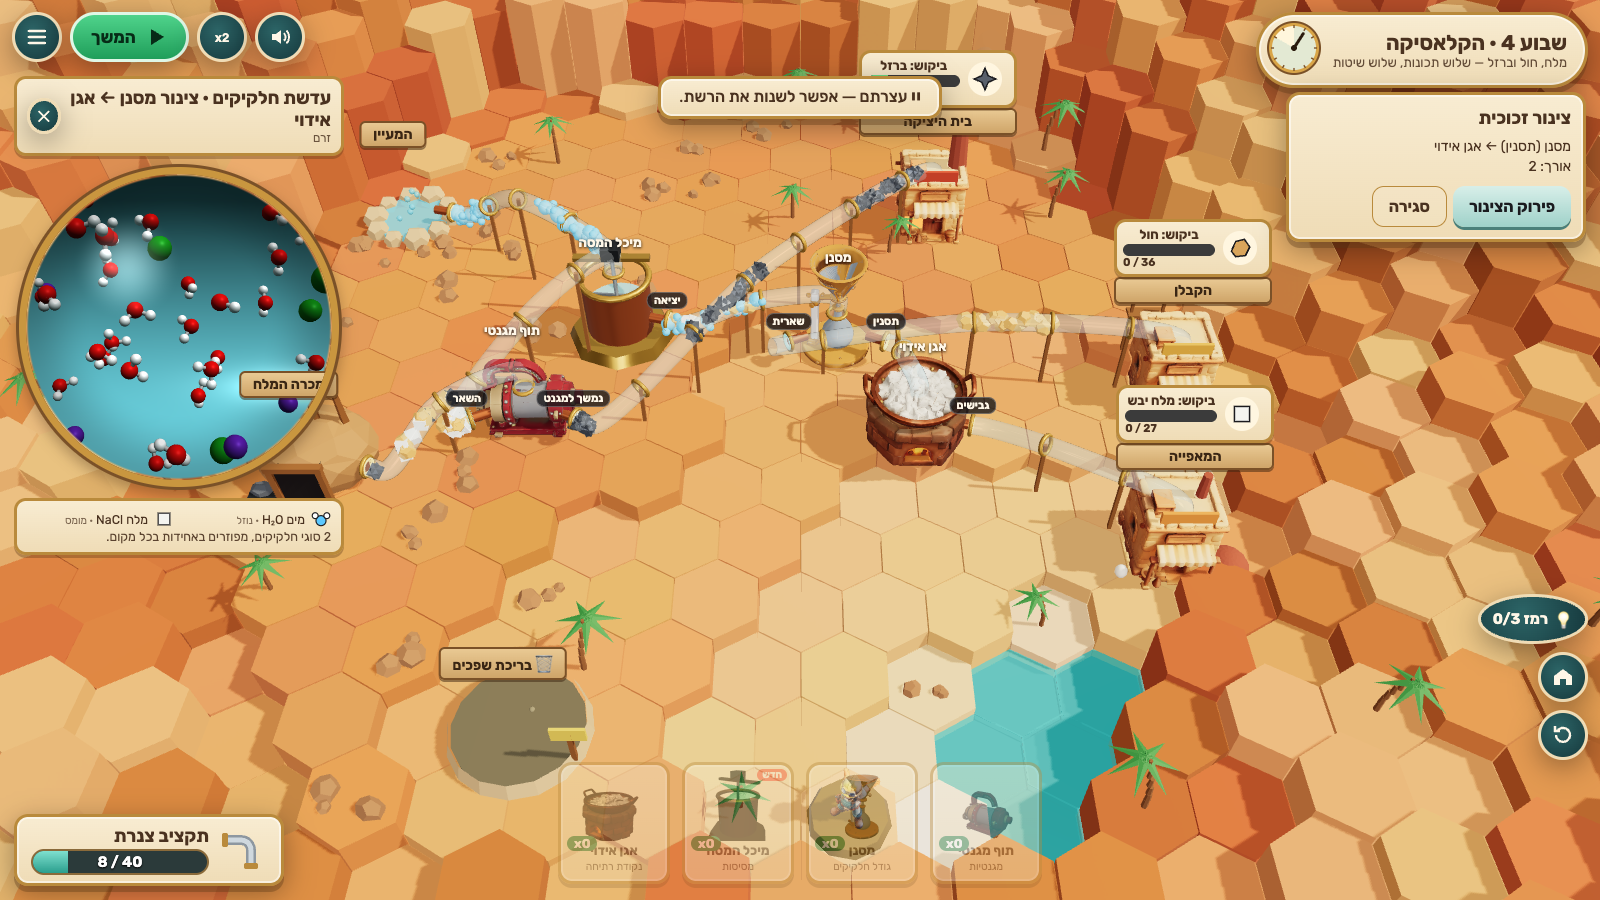
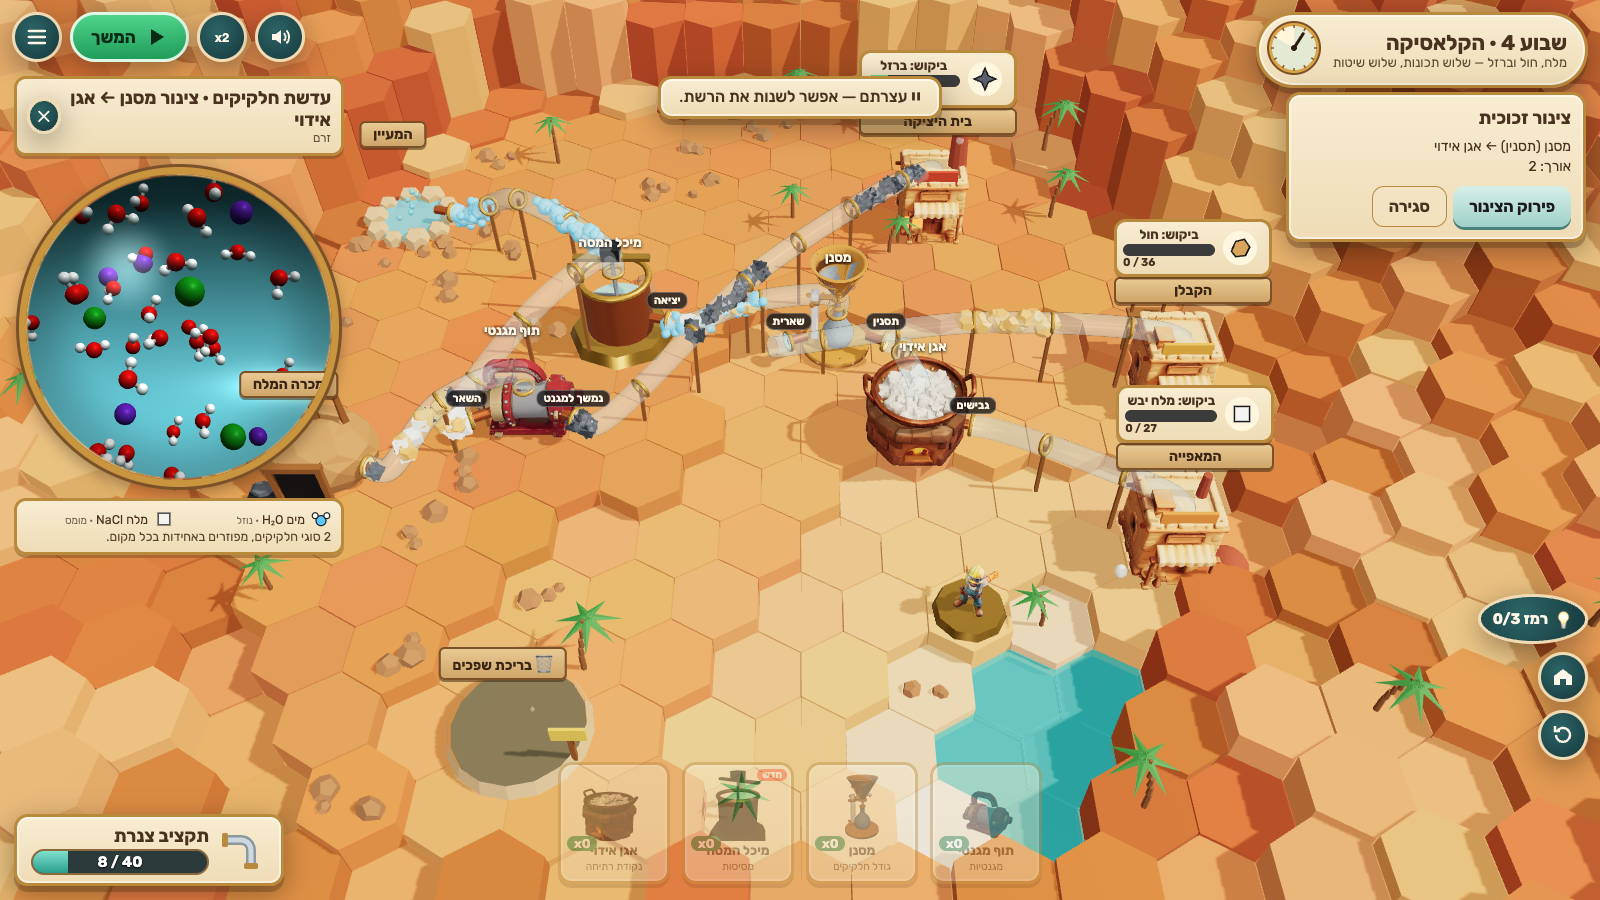
Visual review, README, Vercel config, brass backlog dial, dusk tint

diff --git a/src/game/Game.ts b/src/game/Game.ts
@@ -125,7 +125,7 @@ export class Game {
     this.scene.environment = pmrem.fromScene(new RoomEnvironment(), 0.04).texture;
     this.scene.environmentIntensity = 0.28;
     this.scene.add(this.levelRoot);
-    this.field = new ParticleField(this.scene, 2.9);
+    this.field = new ParticleField(this.scene, 3.3);
     this.fx = new Fx(this.scene);
     this.controls = new OrbitControls(this.camera, canvas);
     this.controls.enableDamping = true;
@@ -438,7 +438,7 @@ export class Game {
       root.append(lab.meter);
     }
     if (n.kind === 'source') {
-      lab.gauge = el('div', { class: 'gauge hidden' }, `<span>⚠</span><div class="bar"><i></i></div><span class="txt">עומס</span>`);
+      lab.gauge = el('div', { class: 'gauge hidden' }, `<svg class="dial" viewBox="0 0 60 36"><path d="M6 32 A24 24 0 0 1 54 32" fill="#fff6dc" stroke="#7a5128" stroke-width="3"/><path d="M38 12 A24 24 0 0 1 54 32" fill="none" stroke="#e2552d" stroke-width="5"/><line class="needle" x1="30" y1="32" x2="30" y2="10" stroke="#2b1b0e" stroke-width="3" stroke-linecap="round"/><circle cx="30" cy="32" r="3.5" fill="#2b1b0e"/></svg><span class="txt">עומס בצנרת</span>`);
       root.append(lab.gauge);
     }
     if (n.kind === 'waste') sign.textContent = '🗑 ' + n.he;
@@ -498,7 +498,8 @@ export class Game {
       if (lab.gauge) {
         const busy = n.buffer.length >= 3 || n.overflow > 0.02;
         lab.gauge.classList.toggle('hidden', !busy || w.state === 'planning');
-        (lab.gauge.querySelector('.bar > i') as HTMLElement).style.width = `${Math.min(100, n.overflow * 100 + (n.buffer.length / 5) * 20)}%`;
+        const load = Math.min(1, n.overflow * 0.8 + (n.buffer.length / 5) * 0.2);
+        lab.gauge.querySelector('.needle')!.setAttribute('transform', `rotate(${-80 + load * 160} 30 32)`);
         lab.gauge.classList.toggle('warn', n.overflow > 0.05 && n.overflow < 0.5);
         lab.gauge.classList.toggle('crit', n.overflow >= 0.5);
         lab.gauge.querySelector('.txt')!.textContent = n.overflow >= 0.5 ? 'עומד להציף!' : 'עומס';

diff --git a/src/render/pipes.ts b/src/render/pipes.ts
@@ -92,7 +92,7 @@ export class ParticleField {
   }
 
   /** Draw a packet's particles at a point along a curve. */
-  packetOnCurve(curve: THREE.CatmullRomCurve3, u0: number, comp: Comp, packetId: number, t: number, spread = 0.14, trailLen = 2.4): void {
+  packetOnCurve(curve: THREE.CatmullRomCurve3, u0: number, comp: Comp, packetId: number, t: number, spread = 0.17, trailLen = 2.4): void {
     const list = particleUnits(comp);
     const tmp = new THREE.Vector3();
     const tan = new THREE.Vector3();
@@ -119,7 +119,7 @@ export function glassPipeMaterial(): THREE.MeshPhysicalMaterial {
   return new THREE.MeshPhysicalMaterial({ color: '#dcf7ff', metalness: 0.1, roughness: 0.02, transparent: true, opacity: 0.3, depthWrite: false, clearcoat: 1, clearcoatRoughness: 0.02, specularIntensity: 1, envMapIntensity: 2.2, emissive: '#7fe9ff', emissiveIntensity: 0.0, side: THREE.DoubleSide });
 }
 
-export function buildPipeMesh(curve: THREE.CatmullRomCurve3, mat: THREE.Material, radius = 0.21): THREE.Mesh {
+export function buildPipeMesh(curve: THREE.CatmullRomCurve3, mat: THREE.Material, radius = 0.25): THREE.Mesh {
   const geo = new THREE.TubeGeometry(curve, Math.max(24, Math.floor(curve.getLength() * 10)), radius, 12, false);
   const m = new THREE.Mesh(geo, mat);
   m.renderOrder = 2;

diff --git a/src/render/terrain.ts b/src/render/terrain.ts
@@ -197,7 +197,7 @@ export interface Environment {
 }
 
 const SKY_DAY = new THREE.Color('#bfe3e6');
-const SKY_DUSK = new THREE.Color('#f29a6b');
+const SKY_DUSK = new THREE.Color('#d98ca0');
 const SKY_NIGHT = new THREE.Color('#40375e');
 
 export function buildEnvironment(scene: THREE.Scene): Environment {
@@ -221,7 +221,7 @@ export function buildEnvironment(scene: THREE.Scene): Environment {
   const bg = scene.background as THREE.Color;
   const fog = scene.fog as THREE.Fog;
   const sunDay = new THREE.Color('#fff1d6');
-  const sunDusk = new THREE.Color('#ff9a57');
+  const sunDusk = new THREE.Color('#ff8a5c');
   return {
     sun,
     hemi,
@@ -230,7 +230,7 @@ export function buildEnvironment(scene: THREE.Scene): Environment {
       const a = THREE.MathUtils.lerp(-0.9, 1.15, f); // sun azimuth sweep
       const elev = Math.sin(THREE.MathUtils.lerp(0.35, 2.75, f)) * 0.9 + 0.12;
       sun.position.set(Math.cos(a) * 22, 6 + elev * 18, Math.sin(a) * 10 + 8);
-      const dusk = THREE.MathUtils.smoothstep(f, 0.62, 1.0);
+      const dusk = THREE.MathUtils.smoothstep(f, 0.55, 0.95);
       sun.color.copy(sunDay).lerp(sunDusk, dusk);
       sun.intensity = 3.0 - dusk * 1.2;
       hemi.intensity = 1.05 - dusk * 0.35;

diff --git a/src/style.css b/src/style.css
@@ -101,6 +101,7 @@ bdi.f, .ltr { direction: ltr; unicode-bidi: isolate; font-variant-numeric: tabul
 .gauge.warn { border-color: var(--warn); animation: shake 0.4s infinite; }
 .gauge.crit { border-color: var(--bad); background: rgba(120,20,10,0.85); animation: shake 0.25s infinite; }
 @keyframes shake { 0%,100% { transform: translate(-50%,-100%) translateX(0); } 50% { transform: translate(-50%,-100%) translateX(2px); } }
+.gauge .dial { width: 54px; height: 33px; }
 .gauge .bar { width: 46px; height: 8px; border-radius: 5px; background: rgba(255,255,255,0.15); overflow: hidden; direction: ltr; }
 .gauge .bar > i { display: block; height: 100%; background: var(--teal-300); }
 .gauge.warn .bar > i { background: var(--warn); }

diff --git a/docs/VISUAL_REVIEW.md b/docs/VISUAL_REVIEW.md
@@ -1,0 +1,60 @@
+# Visual review — mockups vs the real game
+
+Targets: ChatGPT (gpt-image) mockups in [visual-targets/](visual-targets/) (prompts in [PROMPTS.md](visual-targets/PROMPTS.md)). They are design targets, not evidence of the game.
+Actuals: real captures in [captures/](captures/), produced by `node scripts/playtest.mjs review --out docs/captures` against the dev server: headless Chromium (SwiftShader WebGL), 1600×900, same aspect as the mockups, every action done with real mouse input (no state injection), time stepped with `window.advanceTime`.
+
+Rendering in headless SwiftShader matches the browser's output closely but is not a GPU capture; colour and anti-aliasing can differ slightly on a real GPU.
+
+## 01 · First 30 seconds (week 1)
+
+| | Target `01-first-30s.png` | Actual `actual-01-first-30s.png` |
+|---|---|---|
+| Camera | Low three-quarter hero shot (~35°), close; the magnet drum fills the centre | Higher strategic three-quarter (~47°), framed to show every node of the week. Deliberate: in a routing game the whole network has to fit on screen. Players can zoom/orbit closer. |
+| Scene | Realistic sandstone cliffs, reservoir with an arched dam, salt flats | Stylised hex terraces (the playing grid) inside a ring of tall sandstone hex columns, turquoise lake, palms, rocks. Same palette; geometry is game-board rather than photo-real. No dam or salt-flat backdrop. |
+| Machines | Brass-and-glass magnet drum with red horseshoe | Tripo `magnet-drum.glb` (red/brass drum, horseshoe on top) — close match. Mine is a procedural rock mound with a timber portal (target: cliff portal with a sign). Customers use the Tripo sandstone house plus procedural props (foundry chimney with smoke, sand pile, village water tank). |
+| Pipes & particles | Thick clear glass pipes on wooden posts with brass couplers; big spiky iron balls and tan faceted sand | Glass tubes on wooden posts with brass rings; spiky dark iron and tan faceted sand particles riding inside. Pipes are thinner and less "glassy" than the painting; particles are smaller but distinct by **shape** as well as colour. |
+| HUD | Round dark-teal buttons top-left (menu, pause, play, ×2); cream plaque "שבוע 1 · שבוע הברזל" + brass sundial top-right; cream machine cards bottom-centre with green ×N badges; pipe-budget card bottom-left; cream demand cards "ביקוש: ברזל 12/16"; wooden name signs | Same layout and hierarchy: teal round buttons (play carries a text label "פתחו ברזים / עצירה" for clarity), cream plaque + live sundial, cream cards with 3D-rendered machine icons and green ×N badges, "תקציב צנרת" card with a teal bar and numbers, cream "ביקוש" cards with the product's particle icon, wooden signs. Demand cards sit above the building rather than beside it. |
+| Lighting | Warm low sun, strong contrast | Warm sun with soft shadows; slightly flatter contrast. |
+
+## 02 · Core action mid-play (week 4 chain + particle lens)
+
+| | Target `02-core-mid-play.png` | Actual `actual-02-core-mid-play.png` |
+|---|---|---|
+| Chain | pool → magnet drum → glass-dome dissolving tank (spring feed) → paper-cone filter + sand bin → steaming copper pan → salt cubes to the bakery | mine → magnet drum → copper dissolving tank with stirrer (spring pipe feeding it) → filter (Tripo funnel) → steaming copper pan (Tripo) → bakery. Same order and readability; our tank is copper with a paddle rather than a glass dome. |
+| Lens | Left side cream panel "עדשת חלקיקים", brass-ringed circle with ball-and-stick H₂O and white cubes, legend with formulas, 4 round stamps | Left side cream panel "עדשת חלקיקים · צינור …", brass-ringed circle rendered live in 3D: bent H₂O molecules and separate Na⁺/Cl⁻ ions spread evenly (salt is dissolved in the filtrate, so it shows ions, not cubes — scientifically more accurate than the mockup). Legend: "מים H₂O · נוזל", "מלח NaCl · מומס", "2 סוגי חלקיקים, מפוזרים באחידות". Stamps appear only when the lens is on a source (you classify streams at their source), so this pipe view has none. |
+| Inspector | — | Right panel for the selected pipe (route, length, "פירוק הצינור"). |
+| HUD | as 01 | as 01; tray cards fade to ×0 once placed. |
+
+## 03 · Failure / consequence (week 2, evaporating before filtering)
+
+| | Target `03-failure.png` | Actual `actual-03-failure.png` |
+|---|---|---|
+| Moment | Bakery puffs sand and salt out of its door under a comic bubble "פויה! יש חול במלח"; demand card 8/24 with an orange outline and a red "!" | Same: comic bubble "פויה! יש חול במלח" above the bakery, the demand card gets an orange outline and a red "!", the rejected packet bursts out as real salt-cube and sand particles. |
+| Cause shown | Salt water passing through a filter | Our capture shows the other classic order mistake from the same week (pan before filter → sandy salt). The filter-passes-salt-water case is also implemented (filter alone → "פויה! יש מים במלח" at the bakery; filtered brine → clinic rejects "יש מלח במים") and covered by tests. |
+| Backlog gauge | Brass dial "עומס בצנרת" flashing red at the source | Brass dial with a needle, "עומס בצנרת", shown over a source when its backlog builds; it shakes and turns red near flooding. Not visible in this capture (no backlog). |
+| Light | Dusk, pink-purple sky | Late day, warm orange-red light on the terraces; the sky is mostly hidden by the camera angle. Dusk tint ramps from 55 % of the day. |
+
+## 04 · HUD close-up
+
+| | Target `04-hud.png` | Actual `actual-04-hud.png` (crop of the 02 state) |
+|---|---|---|
+| Tray | Cream cards right-to-left with 3D renders, selected card teal-outlined, unavailable card greyed with a padlock | Cream cards right-to-left (RTL flex) with 3D renders made at runtime from the same models used in the valley; the selected card gets a teal outline; used-up cards fade (×0) instead of a padlock — every week only shows that week's machines. "חדש" badge on new machines. |
+| Lens | Right side in this mockup (left in 02) | Left side, as in mockup 02 (the two mockups disagreed; we chose 02 because the inspector uses the right side). |
+| Stamps | 4 round stamps with icons | 4 stamps, each with its own pictogram (atom, bonded molecule, even dots, clumps) plus the Hebrew class name — never colour alone. |
+
+## Fixed during review
+
+- Camera now frames each week's nodes (the transfer valley was cut off); "home" button and `C` key.
+- Status banner no longer blocks clicks on the map (a playtest drag started under it).
+- Picking: overlapping machine hit volumes chose the wrong customer; now the node nearest the pointer wins, and a pipe wins unless the machine's real geometry is in front of it.
+- Exposure/saturation brought back toward the warm mockup palette after adding environment lighting; thicker pipes, bigger particles that trail along the pipe so running pipes look full.
+- Rejection bubble enlarged into a comic speech bubble and placed above the demand card.
+- Backlog bar replaced by a brass needle dial, as in mockup 03.
+
+## Honest remaining deviations
+
+- Terrain is a hex board, not photo-real canyon rock; no dam/salt-flat backdrop.
+- Default camera is higher and wider than the hero mockups, so machines read smaller.
+- Glass pipes read as frosted tubes more than clear glass in bright light.
+- Dissolving tank, separating funnel, chromatography tower, sieve, sources and the waste pond are procedural (Tripo budget: 6 models). The four Tripo machines and the house are the most mockup-like elements.
+- Mascot (Tripo, rigged) has only the Tripo "cheer" clip; idle and facepalm are procedural bone poses.

diff --git a/README.md b/README.md
@@ -1,5 +1,86 @@
 # Clean Flow — זרם נקי
 
-A 3D browser game for Hebrew-speaking grade-8 science students (Israeli curriculum, per [Workbook](https://science.workbook.co.il/grade-8)).
+A 3D browser game for Hebrew-speaking grade-8 science students, built on the Israeli curriculum as published in [Workbook](https://science.workbook.co.il/grade-8) (chapter 3: compounds, mixtures and separation).
 
-Status: build starting. Brief: [docs/handoff/BUILD_HANDOFF.md](docs/handoff/BUILD_HANDOFF.md) and [docs/handoff/COMMON.md](docs/handoff/COMMON.md). Curriculum snapshots: [docs/curriculum/](docs/curriculum/).
+**Mini Metro meets a chemistry plant.** Mixed-up streams pour out of mines, springs, marshes and spills in a sunlit desert valley. Towns and workshops want pure stuff. Lay glass pipes, drop brass separation machines in the right order, and watch every particle ride the pipes — when you get it wrong you *see* the salt sail straight through your filter and the bakery spit out sandy salt.
+
+![Week 4 mid-play with the particle lens](docs/captures/actual-02-core-mid-play.png)
+
+## Play
+
+```bash
+npm install
+```
+
+```bash
+npm run dev
+```
+
+Open http://localhost:5195/ (strict port). Production build and preview:
+
+```bash
+npm run build
+```
+
+```bash
+npm run preview
+```
+
+(http://localhost:4195/). The build is fully static and offline: fonts and models are bundled, nothing is fetched at runtime, no backend, accounts, analytics or API keys.
+
+## Controls
+
+| Action | Mouse / touch | Keyboard |
+|---|---|---|
+| Place a machine | Drag a card from the tray onto a free hexagon (or tap the card, then tap a hexagon) | `1`–`8` selects a tray card |
+| Draw a pipe | Drag from an outlet ring (source or machine) to a machine, customer or the waste pond — or tap the outlet, then tap the target | |
+| Look inside a stream (particle lens) | Tap a source or a pipe | |
+| Classify a stream | Stamp it in the lens: יסוד / תרכובת / תערובת הומוגנית / תערובת הטרוגנית | |
+| Machine settings / move / remove | Tap the machine (still: 78 °C / 100 °C) | `Delete` removes the selected pipe or machine |
+| Open the valves / pause | ▶ button | `Space` |
+| Speed ×2 | ×2 button | `F` |
+| Rerun (network kept) | ↻ button | `R` |
+| Hint (weeks 1–5) | 💡 button | `H` |
+| Camera | Drag ground: pan · right-drag / two fingers: rotate · wheel / pinch: zoom · ⌂ button: whole valley | arrows/WASD pan, `C` home |
+
+Mute, reduced motion and the full control list are in the menu (☰) and on the title screen.
+
+## What's in the slice (implemented)
+
+- **Six weeks** (6–10 minutes total): Iron Week (magnet; a spring that needs nothing), Salt Week (filter, evaporation pan, still; a new source appears mid-week), Oil Week (separating funnel; clear sugar water that isn't water), The Classic (salt + sand + iron: magnet → dissolve → filter → evaporate), Ink & Spirits (chromatography; distillation at 78 °C vs 100 °C; air as a lens-only classification trap) and **Flood Day**, a no-hint transfer week with four never-seen streams (copper-sulfate water + gravel, vinegar + oil, iron + sulfur powder, iron sulfide).
+- Authoritative pure-TypeScript simulation (`src/sim/`): substances with real properties, classification derived from particle data, 8 machines as mass-conserving functions, packet flow through pipes with queues, stalls, backlogs, floods, customer purity checks.
+- 3D valley (Three.js): terraced sandstone hex board inside a canyon, lake, palms, day→dusk light per week, glass pipes with instanced particles coded by shape *and* colour, animated machines, steam/sparks/particle bursts, camera shake, a rigged Tripo engineer mascot who cheers or facepalms.
+- Particle lens: a live ball-and-stick 3D view of any stream (ions when dissolved, crystals/grains when solid, layers when immiscible), legend with formulas and states, class stamps with first-try bonus.
+- Week 1 coach marks, progressive hints (logged), failure screens with a short worked explanation (none in the transfer week), stars (done / all stamps right first try / zero rejections within the machine par), week-end upgrade pick (+5 pipe or bigger reservoirs).
+- Hebrew RTL UI (bundled Rubik), formulas and numbers isolated LTR, never colour-only feedback, mute / pause / reduced motion, keyboard + touch, DPR capped at 2, pause on focus loss, resize, WebGL context-loss message.
+- Anonymous local learning log (localStorage `cleanflow.log.v1`).
+- Test hooks: `window.render_game_to_text()` and deterministic `window.advanceTime(ms)`; read-only locators in `window.cf`.
+
+## Planned / not in this slice
+
+- A persistent valley that grows across weeks (each week is currently its own valley layout).
+- Splitter junctions and throughput upgrades (faster still, pipe bridges).
+- Tripo idle/facepalm animation clips (idle and facepalm are procedural poses on the rigged model).
+- More Tripo machines (dissolving tank, funnel, chromatography tower, sieve, sources are procedural).
+
+## Tests
+
+```bash
+npm test
+```
+
+67 unit tests: classification, mass conservation for every machine, station physics, customer judging, every level's intended network wins in the full simulation, wrong orders fail with the advertised rejection, the transfer week rejects every constant strategy (every single machine type and every two-machine chain applied to all streams). Headless playthroughs with real mouse input:
+
+```bash
+node scripts/playtest.mjs campaign
+```
+
+(needs the dev server; also `week1`, `week1-fail`, `mobile`, `review`). See [PLAYTEST.md](PLAYTEST.md).
+
+## Deploy to Vercel
+
+Static Vite app with a relative base. In Vercel: import `AceDZN/clean-flow`, framework preset **Vite**, build command `npm run build`, output directory `dist`. `vercel.json` already sets these. No environment variables.
+
+## Docs
+
+[GAME_IDENTITY.md](GAME_IDENTITY.md) · [CURRICULUM.md](CURRICULUM.md) · [ASSETS.md](ASSETS.md) · [PLAYTEST.md](PLAYTEST.md) · [progress.md](progress.md) · [docs/VISUAL_REVIEW.md](docs/VISUAL_REVIEW.md) · mockups in [docs/visual-targets/](docs/visual-targets/) · real captures in [docs/captures/](docs/captures/) · brief in [docs/handoff/](docs/handoff/)
